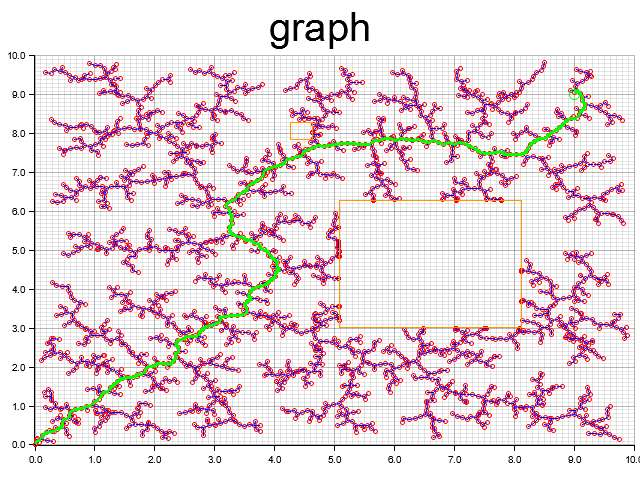
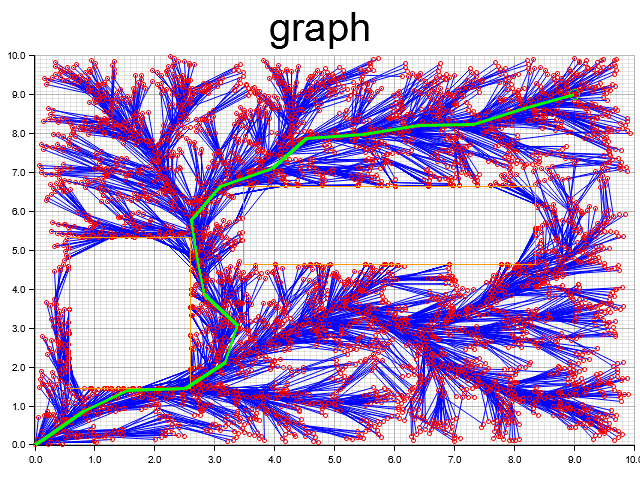
added rewiring

diff --git a/src/lib.rs b/src/lib.rs
@@ -35,6 +35,7 @@ pub struct Tree {
     pub obstacles: Vec<Obstacle>,
 }
 
+const NEIGHBORHOOD: f32 = 1.0;
 impl Tree {
     pub fn new() -> Self {
         Self { nodes: vec![], obstacles: vec![] }
@@ -128,18 +129,25 @@ impl Tree {
         let (c_x, c_y) = Self::constrain((x, y), (par_x, par_y));
         let (i_x, i_y) = Self::intersect((par_x, par_y), (c_x, c_y), &self.obstacles);
         // println!("og {:?} circle {:?} obs {:?}", (x, y), (c_x, c_y), (i_x, i_y));
-        let new_par = self.min_dist(i_x, i_y);
-        let (new_par_x, new_par_y) = match new_par {
-            Some(e)  => (self.nodes.get(e).unwrap().x, self.nodes.get(e).unwrap().y),
-            None => (x, y)
-        };
-        let new_par_cost = match new_par {
-            Some(e) => self.nodes.get(e).unwrap().cost,
-            None => 0.0
-        };
-        self.nodes.push(Node::new(new_par, i_x, i_y, dist(i_x, i_y, new_par_x, new_par_y) + new_par_cost));
-        if min != self.min_dist(i_x, i_y) { println!("optimized")};
+        self.nodes.push(Node::new(min, i_x, i_y, dist(i_x, i_y, par_x, par_y) + par_cost));
+        // if min != self.min_dist(i_x, i_y) { println!("optimized")};
+        let rewire_candidates: Vec<usize> = self.nodes.iter().enumerate().filter(|(_, n)| n.dist(self.nodes.last().unwrap().x, self.nodes.last().unwrap().y) < NEIGHBORHOOD).map(|(i, _)| i).collect();
+        for candidate in rewire_candidates {
+            // self.rewire(candidate);
+        }
+        self.rewire(self.nodes.len() - 1);
         self.nodes.len() - 1
+    }
+
+    pub fn rewire(&mut self, node: usize) {
+        let n = self.nodes[node];
+        if n.parent.is_none() {return};
+        let min = self.nodes.iter().enumerate().filter(|(i, _)| i != &node).filter(|(i, e)| e.dist(n.x, n.y) < NEIGHBORHOOD || i == &n.parent.unwrap()).min_by(|(_, a), (_, b)| {
+            // println!("a {:?} b {:?}", a, b);
+            (a.cost + a.dist(n.x, n.y)).total_cmp(&(b.cost + b.dist(n.x, n.y)))
+        });
+        // println!("{:?}", min);
+        self.nodes[node].parent = match min { Some(m) => Some(m.0), None => self.nodes[node].parent};
     }
 
     pub fn add_obs(&mut self, obs: Obstacle) {

diff --git a/src/main.rs b/src/main.rs
@@ -18,20 +18,21 @@ fn main() -> Result<(), Box<dyn std::error::Error>> {
     tree.add(0.0, 0.0);
     let mut iters = 0;
     loop {
-        let new = (rng.gen::<f32>() * 10.0, rng.gen::<f32>() * 10.0);
+        let new = if iters % 10 == 0 {(goal.x, goal.y)} else {(rng.gen::<f32>() * 10.0, rng.gen::<f32>() * 10.0)};
         let node = tree.add(new.0, new.1);
         if goal.sample(tree.nodes[node].x, tree.nodes[node].y) {
             end = Some(node); 
-            break;
+            // break;
         }
 
-        if iters > 10000 {
+        if iters > 5000 {
             break;
         }
 
         iters += 1;
+        println!("iter {}", iters);
     }
-    let path = tree.ancestry(end.unwrap_or(0));
+    let path = if end.is_some() { tree.ancestry(end.unwrap_or(0)) } else { vec![] };
 
     println!("solve time {:?} in {} iters", now.elapsed().unwrap(), iters);
 
@@ -60,10 +61,6 @@ fn main() -> Result<(), Box<dyn std::error::Error>> {
     // ).unwrap();
 
     chart.draw_series(
-        tree.nodes.iter().map(|n| Circle::new((n.x, n.y), 2, &RED))
-    ).unwrap();
-
-    chart.draw_series(
         tree.nodes.iter().map(|n| {
             return match n.parent {
                 Some(m) => PathElement::new([(n.x, n.y), (tree.nodes[m].x, tree.nodes[m].y)], &BLUE),
@@ -71,7 +68,10 @@ fn main() -> Result<(), Box<dyn std::error::Error>> {
             };
         })
     ).unwrap();
-
+    
+    chart.draw_series(
+        tree.nodes.iter().map(|n| Circle::new((n.x, n.y), 2, &RED))
+    ).unwrap();
 
     chart.draw_series(
         tree.obstacles.iter().map(|o| {
